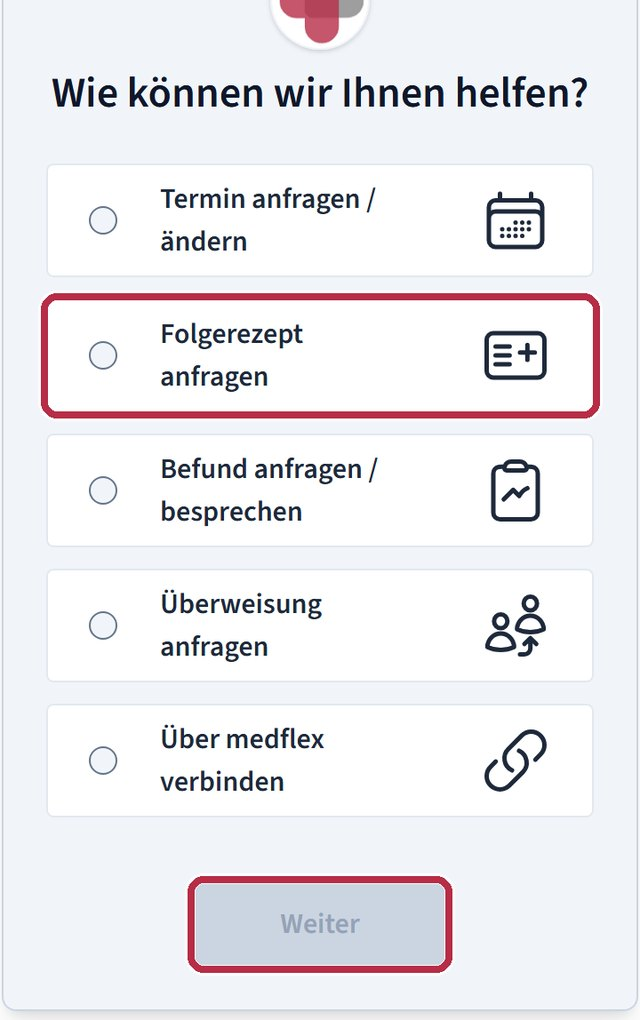
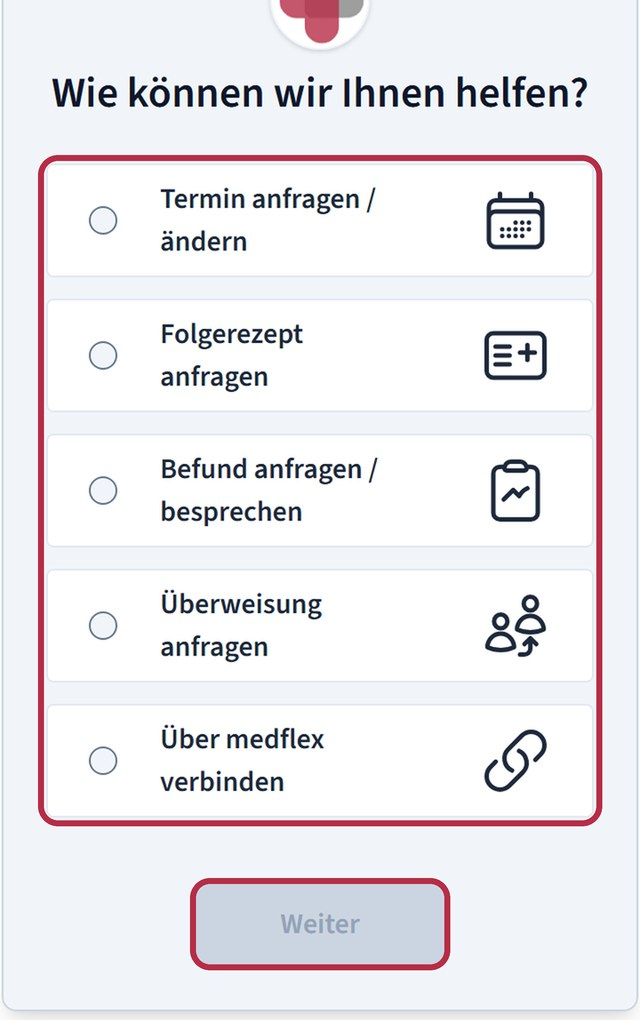
Anleitungen: jeder Schritt zeigt die richtige Markierung, Hinweis auf Wochenend-Pause

Changed region(s): [[0.0625, 0.152, 0.9688, 0.8206], [0.2812, 0.851, 0.7188, 0.9725]]

diff --git a/hilfe.html b/hilfe.html
@@ -47,7 +47,7 @@
       <li><a href="#termin">3 · Termin anfragen, ändern oder absagen</a></li>
       <li><a href="#telefon">4 · Wenn am Telefon der Assistent abnimmt</a></li>
     </ul>
-    <div class="hinweis"><p>Alle Bilder sind <strong>Beispielansichten</strong> von medflex. Ihre Ansicht kann etwas anders aussehen, die Schritte sind dieselben. Sie brauchen nichts zu installieren; medflex läuft im Browser Ihres Handys oder Computers. Wenn Sie lieber eine App möchten: Es gibt medflex kostenlos für Android und iPhone.</p></div>
+    <div class="hinweis"><p>Alle Bilder sind <strong>Beispielansichten</strong> von medflex. Ihre Ansicht kann etwas anders aussehen, die Schritte sind dieselben. Sie brauchen nichts zu installieren; medflex läuft im Browser Ihres Handys oder Computers. Wenn Sie lieber eine App möchten: Es gibt medflex kostenlos für Android und iPhone. Von Freitag 12 Uhr bis Montag 7 Uhr sind Anfragen und Nachrichten über medflex nicht möglich.</p></div>
   </div>
 </section>
 
@@ -62,7 +62,7 @@
       </article>
       <article class="schritt">
         <div><span class="nummer" aria-hidden="true">2</span><h3>Sagen Sie, worum es geht</h3><p>Unter <strong>„Wie können wir Ihnen helfen?“</strong> tippen Sie auf das Passende: Termin, Folgerezept, Befund, Überweisung oder einfach „Über medflex verbinden“. Dann auf <strong>„Weiter“</strong>.</p></div>
-        <figure><img src="img/anleitung/a2-anliegen-waehlen.jpg" width="640" height="1020" alt="Beispielansicht: Liste mit fünf Auswahlmöglichkeiten, darunter Termin anfragen, Folgerezept anfragen und Überweisung anfragen, der Knopf Weiter ist markiert" loading="lazy"><figcaption>Beispielansicht: Anliegen antippen, dann „Weiter“.</figcaption></figure>
+        <figure><img src="img/anleitung/a2-anliegen-waehlen.jpg" width="640" height="1020" alt="Beispielansicht: Liste mit fünf Auswahlmöglichkeiten, darunter Termin anfragen, Folgerezept anfragen und Überweisung anfragen. Die Liste und der Knopf Weiter sind markiert" loading="lazy"><figcaption>Beispielansicht: Ihr Anliegen aus der Liste antippen, dann „Weiter“.</figcaption></figure>
       </article>
       <article class="schritt">
         <div><span class="nummer" aria-hidden="true">3</span><h3>Einmal Ihren Zugang anlegen</h3><p>Beim ersten Mal fragt medflex nach <strong>Vorname, Nachname, Geburtsdatum, Telefonnummer, E-Mail-Adresse</strong> und einem <strong>Passwort</strong> (mindestens 8 Zeichen, mit einer Zahl und einem Großbuchstaben). Haken bei der Datenschutzerklärung setzen, dann <strong>„Anfrage senden“</strong>. Das Geburtsdatum braucht das MVZ, um Sie sicher zuzuordnen.</p><p class="small leise">Tipp: Schreiben Sie sich das Passwort auf, Sie brauchen es beim nächsten Mal wieder.</p></div>
@@ -112,11 +112,11 @@
       </article>
       <article class="schritt">
         <div><span class="nummer" aria-hidden="true">2</span><h3>Neu, ändern oder absagen?</h3><p>medflex fragt, ob Sie einen <strong>neuen Termin</strong> möchten, einen bestehenden <strong>ändern</strong> oder <strong>absagen</strong> wollen. Bei einem neuen Termin schreiben Sie kurz, worum es geht und seit wann. Beim Absagen reicht das Datum des Termins.</p></div>
-        <figure><img src="img/anleitung/a2-anliegen-waehlen.jpg" width="640" height="1020" alt="Beispielansicht: Auswahl des Anliegens bei medflex" loading="lazy"><figcaption>Beispielansicht: Auswahl des Anliegens.</figcaption></figure>
+        <figure><img src="img/anleitung/a2-termin-waehlen.jpg" width="640" height="1020" alt="Beispielansicht: Auswahl des Anliegens bei medflex, Termin anfragen / ändern und der Knopf Weiter sind markiert" loading="lazy"><figcaption>Beispielansicht: Ohne Zugang wählen Sie hier „Termin anfragen / ändern“, dann „Weiter“.</figcaption></figure>
       </article>
       <article class="schritt">
         <div><span class="nummer" aria-hidden="true">3</span><h3>Abschicken, wir antworten mit dem Termin</h3><p>Sie bekommen den Terminvorschlag in medflex. Für Termine am selben Tag rufen Sie bitte morgens ab 7:30 Uhr oder nachmittags ab 14:30 Uhr an: <a href="tel:+492557377">02557 377</a>.</p><div class="hinweis"><p>Notfälle bitte nie über medflex. In Lebensgefahr: 112. Außerhalb der Sprechzeiten: 116 117.</p></div></div>
-        <figure><img src="img/anleitung/a4-einloggen.jpg" width="640" height="803" alt="Beispielansicht: Anmeldeseite von medflex" loading="lazy"><figcaption>Beispielansicht: Anmeldung bei medflex.</figcaption></figure>
+        <figure><img src="img/anleitung/a8-termin-senden.jpg" width="640" height="290" alt="Beispielansicht: unten im Formular ist der Knopf Terminanfrage senden markiert" loading="lazy"><figcaption>Beispielansicht aus der medflex-Hilfe: der Knopf zum Abschicken.</figcaption></figure>
       </article>
     </div>
   </div>
